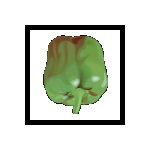
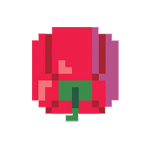
updated upvote sprites and added text wrap for long song and artist names

diff --git a/spunimusic/templates/search.html b/spunimusic/templates/search.html
@@ -26,8 +26,10 @@
     {% else %}
         {% for key, value in songs.items %}
             <div class="row space-top">
-                <div class="col-md-12 song-bar bg-dark">
+                <div class="col-md-12 song-bar bg-dark text-wrap">
+				<a>
                     <img class="song-image float-left" src={{value.album_art}}>
+				</a>
                     <p class="song-text"><strong>Song</strong>: {{value.name}}<br><strong>Artist</strong>: {{value.artist_name}}<br><strong>Likes</strong>: {{value.upvotes}}</p>
                     <img id="downvote" title="{{value.slug}}" class="song-image float-right" src="{% static 'images/downvote.png' %}">
                     <img id="upvote" title="{{value.slug}}" class="song-image float-right" src="{% static 'images/upvote.png' %}">

diff --git a/spunimusic/templates/song.html b/spunimusic/templates/song.html
@@ -5,7 +5,7 @@
 {% block body_block %}
 <div class="container space-top">
     <div class="row space-top">
-        <div class="col-md-12 module-container bg-dark">
+        <div class="col-md-12 module-container bg-dark text-wrap">
             <img src="{{ song.albumArt }}" class="big-image float-left">
             <p class="song-text"><strong>Song</strong>: {{song.name}}<br><strong>Artist</strong>: {{song.artist}}<br><strong>Likes</strong>: {{song.upvotes}}</p>
             <div class="col-md-6 float-left">

diff --git a/spunimusic/templates/profile.html b/spunimusic/templates/profile.html
@@ -19,7 +19,7 @@
         {% if songs %}
             {% for song in songs %}
                 <div class="row space-top">
-                    <div class="col-md-12 song-bar bg-dark">
+                    <div class="col-md-12 song-bar bg-dark text-wrap">
                         <a href="{% url 'spuni:show_song' song.slug %}">
                             <img class="song-image float-left" id="thumbnail" src={{song.albumArt}}>
                         </a>

diff --git a/spunimusic/templates/index.html b/spunimusic/templates/index.html
@@ -27,7 +27,7 @@
         {% else %}
             {% for song in songs %}
                 <div class="row space-top">
-                    <div class="col-md-12 song-bar bg-dark">
+                    <div class="col-md-12 song-bar bg-dark text-wrap">
                         <a href="{% url 'spuni:show_song' song.slug %}">
                             <img class="song-image float-left" src={{song.albumArt}}>
                         </a>

diff --git a/spunimusic/static/css/base.css b/spunimusic/static/css/base.css
@@ -131,3 +131,11 @@ body, html {
 .para-box{
 	padding:20px;
 }
+
+.text-wrap > p{
+	white-space: nowrap; 
+	width: 400px; 
+	overflow: hidden;
+	text-overflow: ellipsis; 
+	
+}
